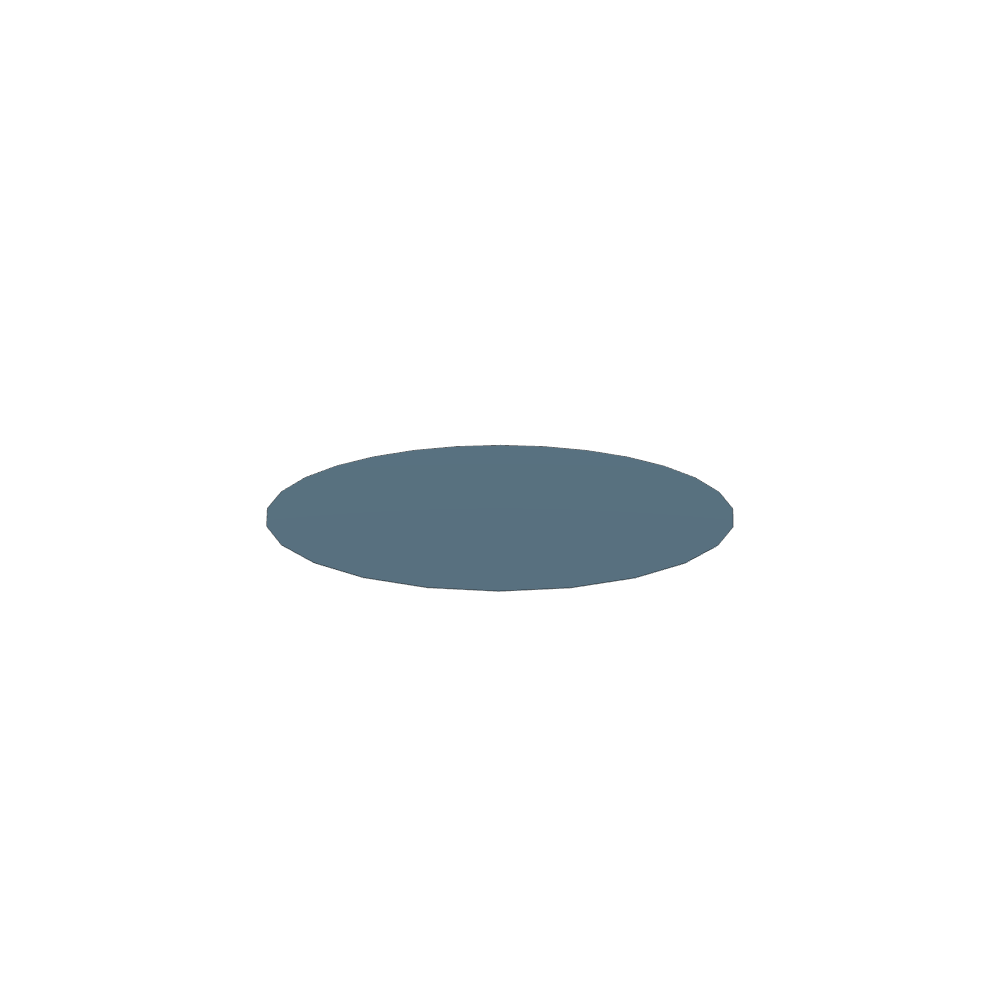
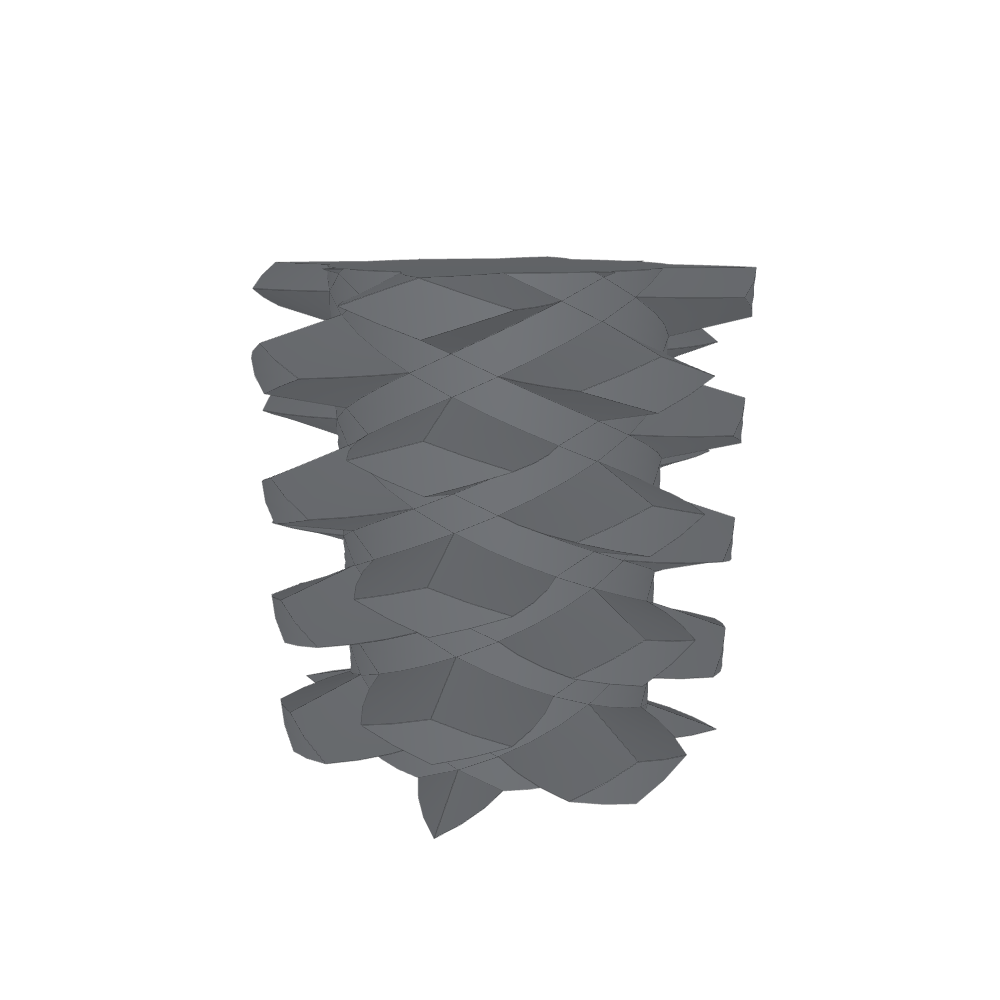
User Save

Changed region(s): [[0.248, 0.248, 0.775, 0.837]]

diff --git a/BillOfMaterials.md b/BillOfMaterials.md
@@ -2,4 +2,5 @@
 # Bill Of Materials 
  |Part|Number Needed|Price|Source| 
  |----|----------|-----|-----|
-|Total: |0|$0.00| |
+|TR8x8 leadscrew, 8 mm lead, 4-start, stainless steel|1|$0.00||
+|Total: |1|$0.00| |
